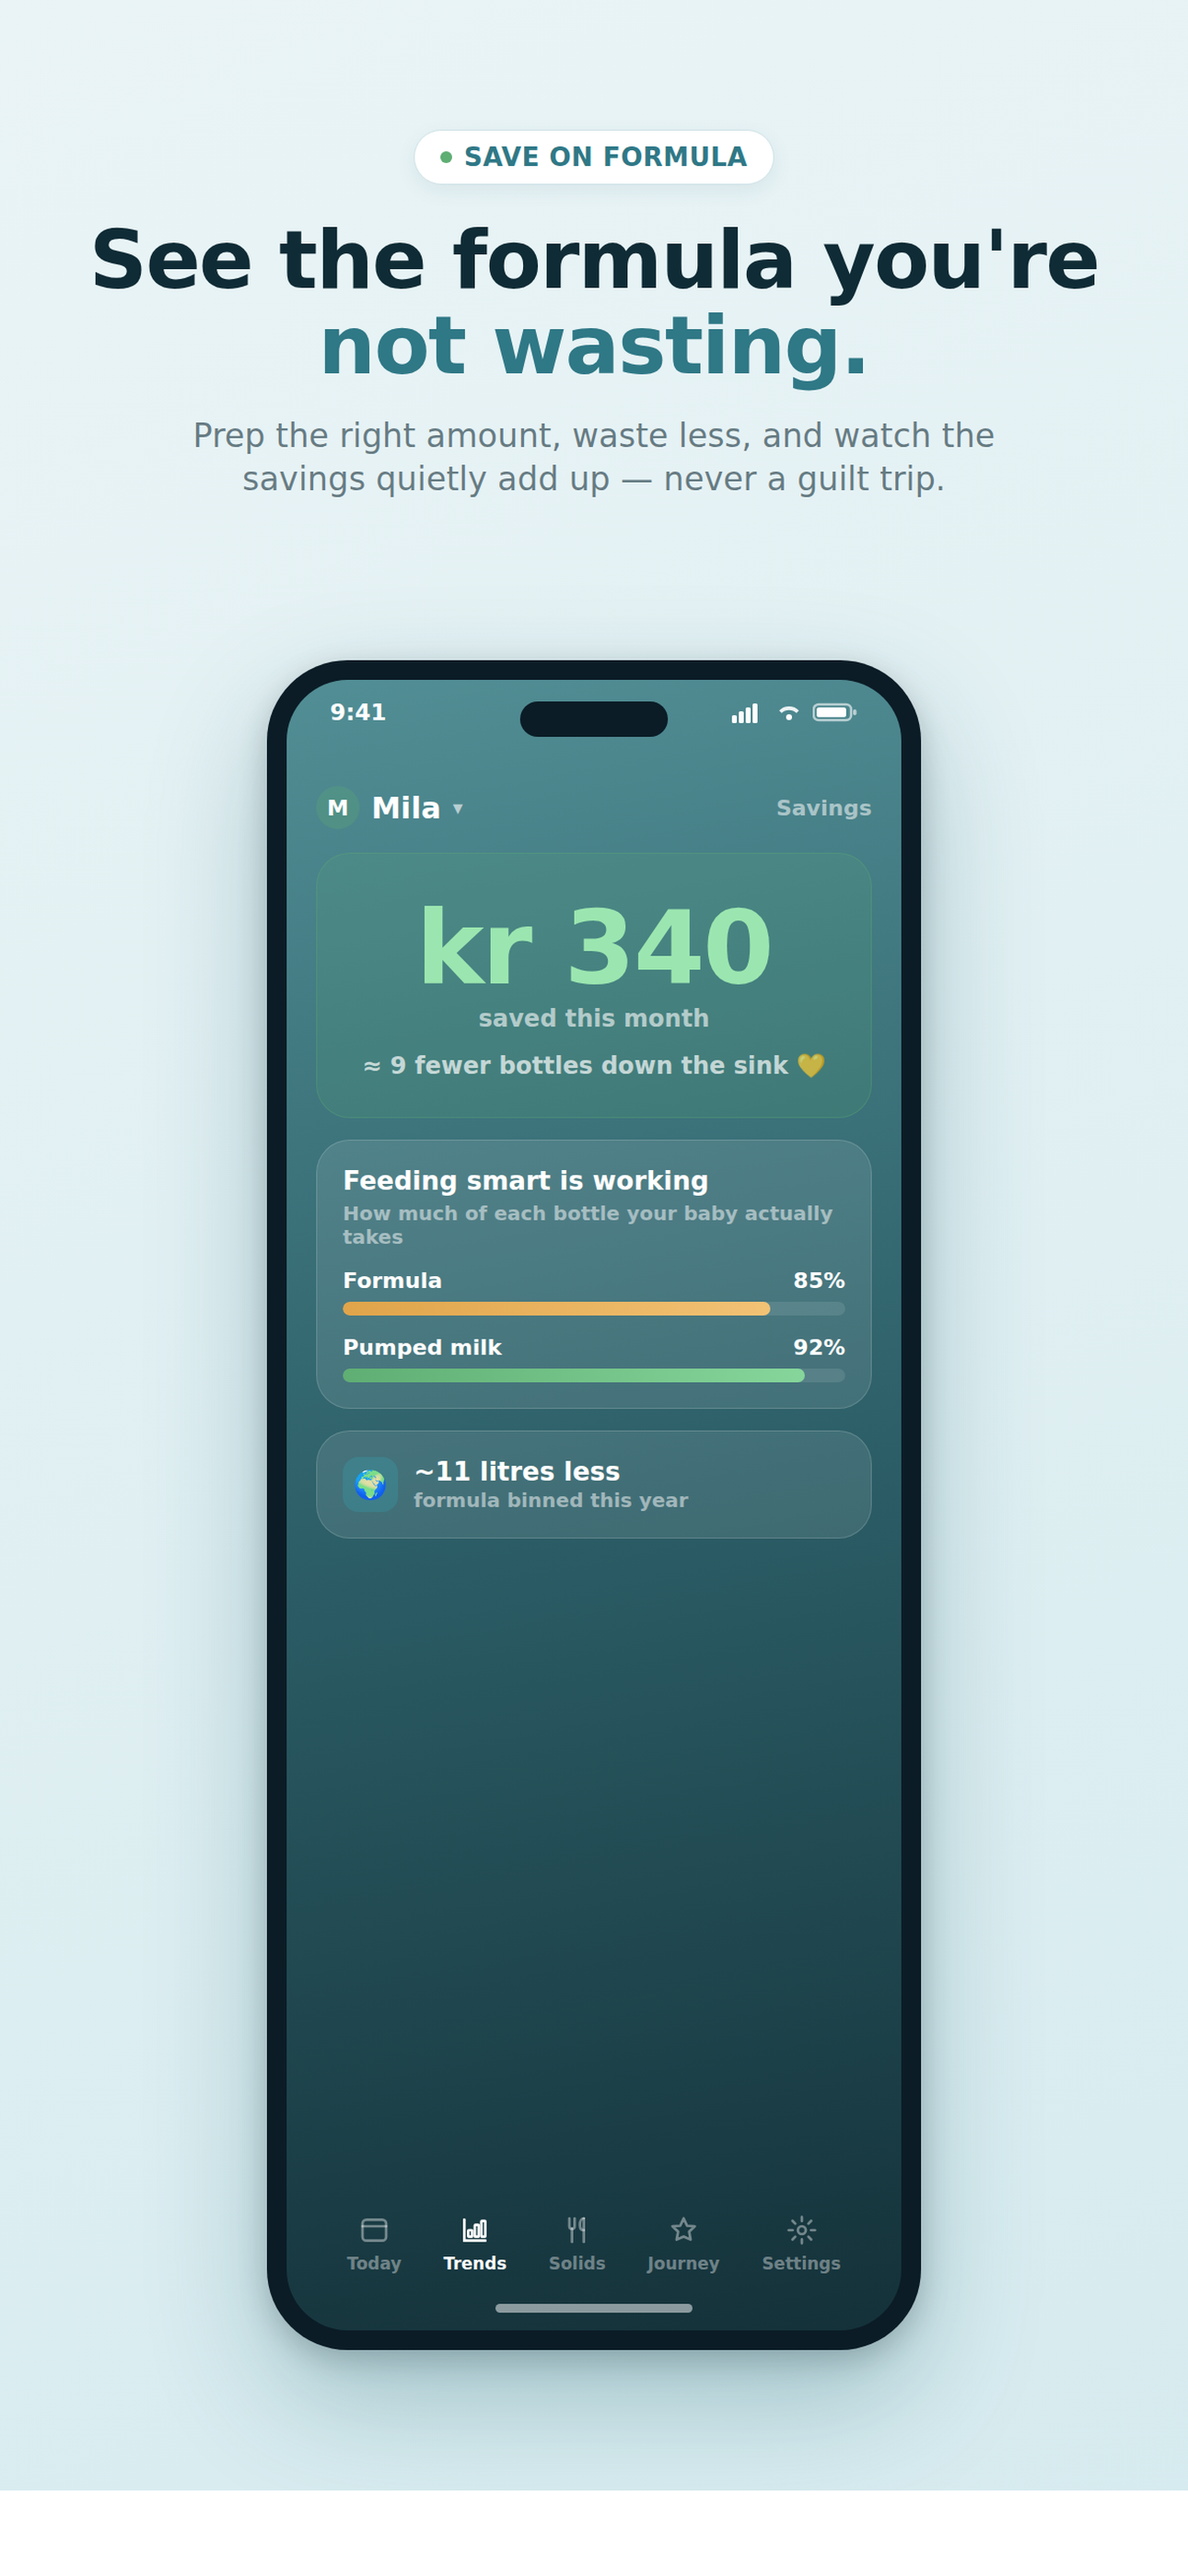
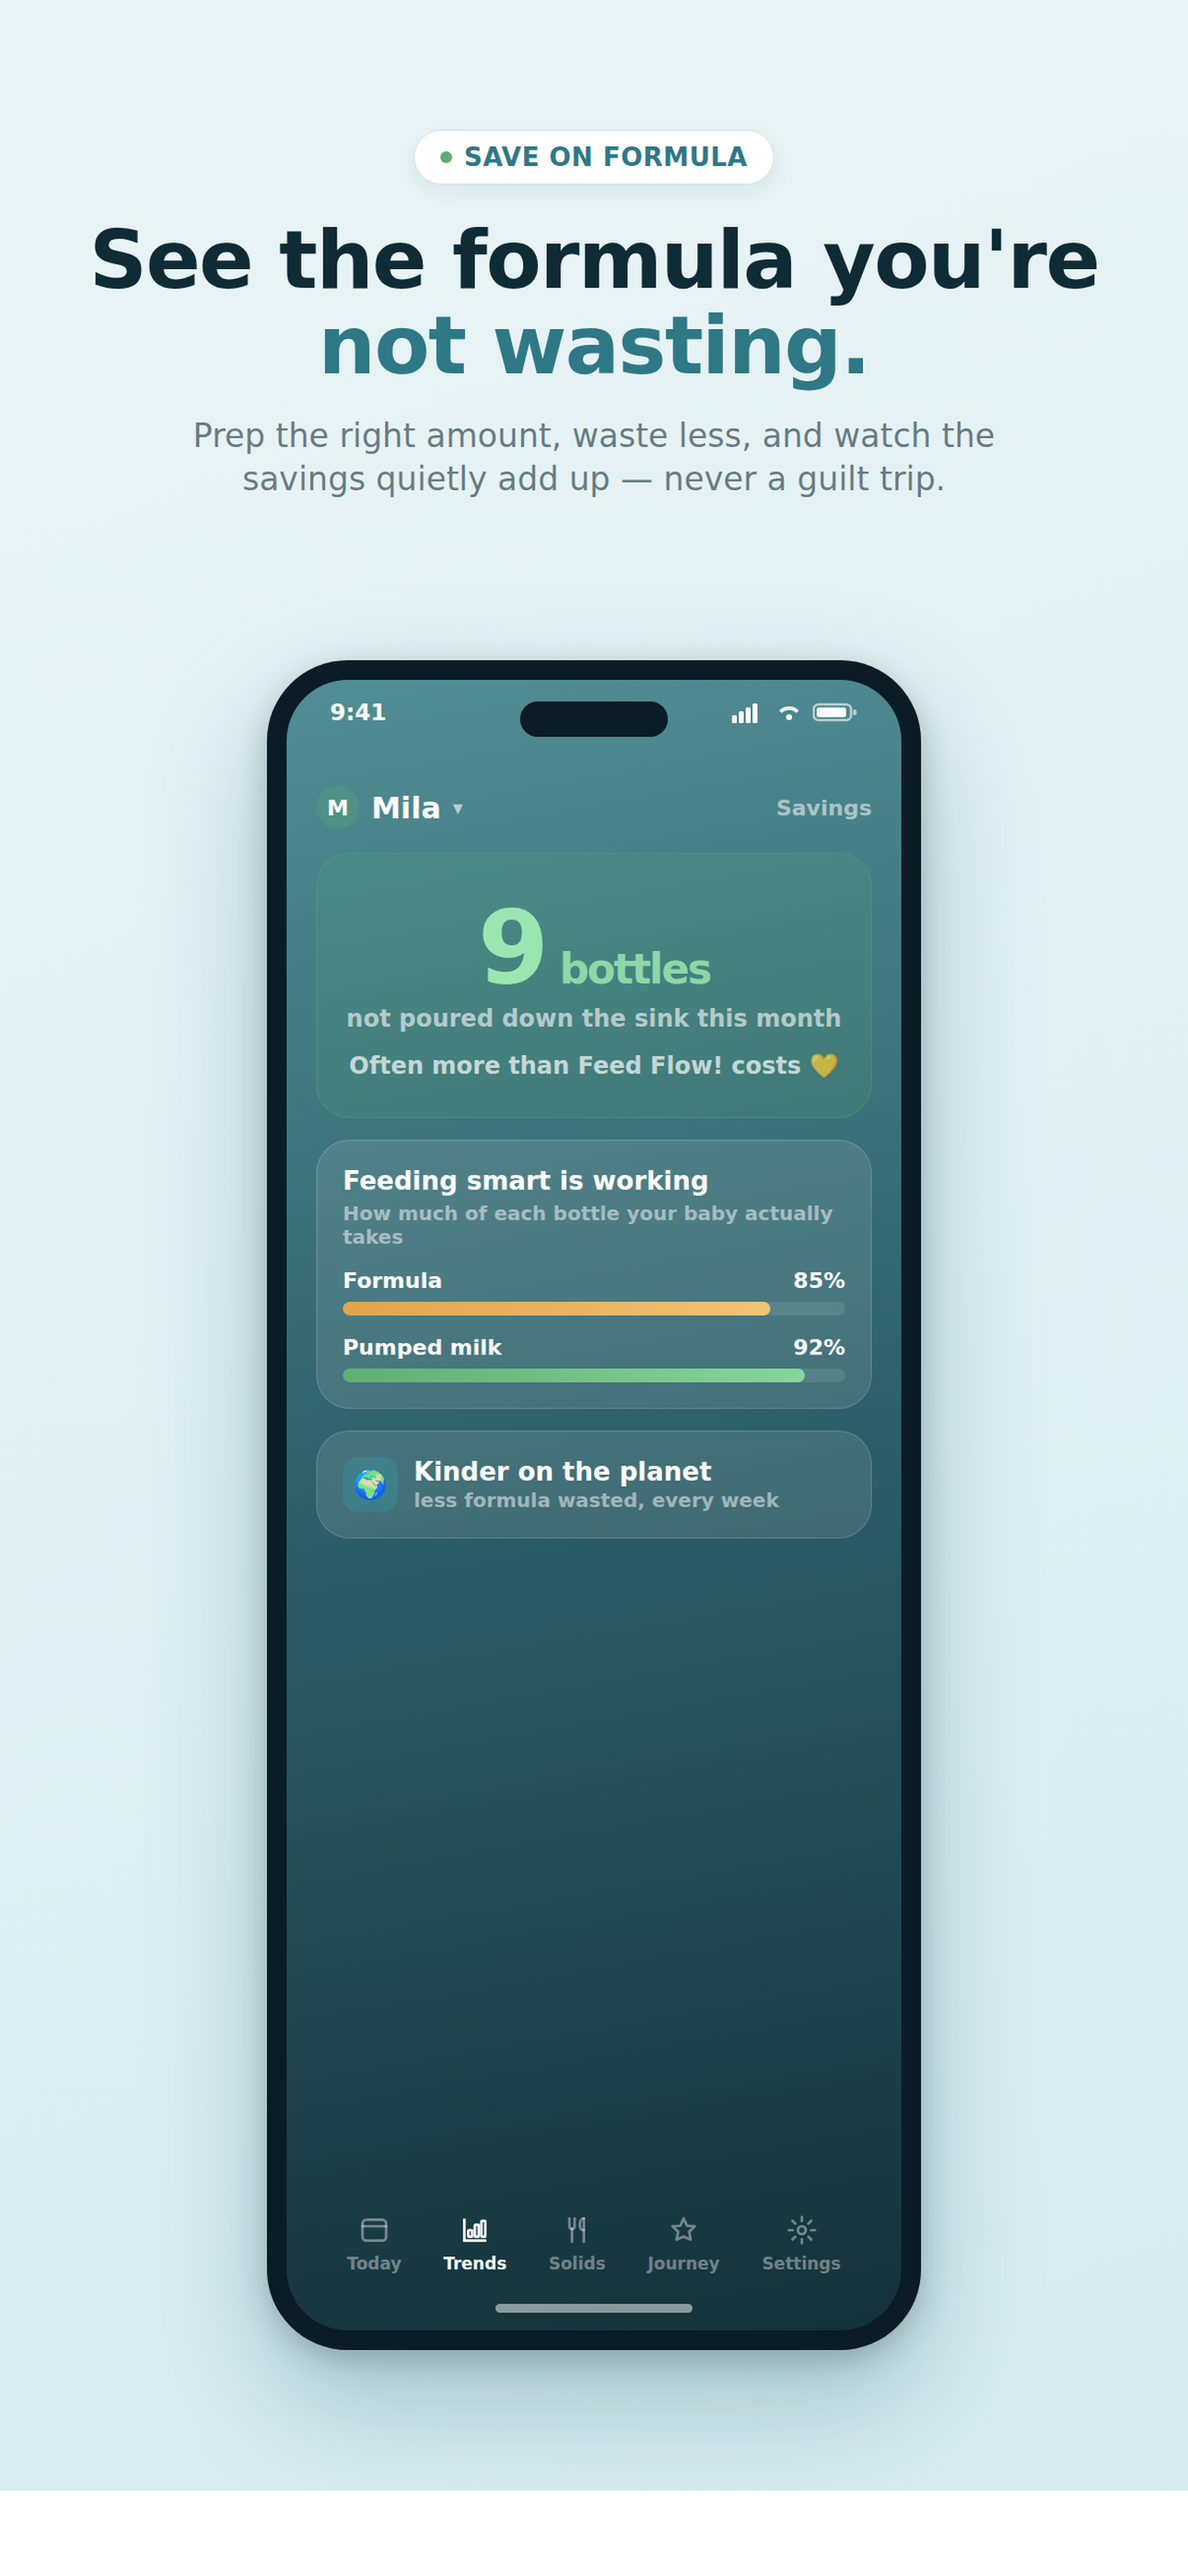
Make savings screenshot currency-neutral (universal set)
Drop the kr figure + litres so the set works in every market: hero is now
"9 bottles not poured down the sink" + "often more than Feed Flow! costs"
(money implied, no symbol) + efficiency %s. Regenerate the App Store file.

Changed region(s): [[0.3101, 0.3423, 0.7132, 0.4356], [0.3411, 0.5601, 0.6512, 0.5912]]

diff --git a/marketing/mockups/savings.html b/marketing/mockups/savings.html
@@ -15,9 +15,9 @@
     <div class="screen-in">
       <div class="hd"><div class="baby"><span class="av">M</span> Mila <span style="font-size:20px;opacity:0.6;">▾</span></div><div class="tab">Savings</div></div>
       <div class="card" style="text-align:center;padding:44px 26px 38px;background:rgba(95,174,115,0.14);border-color:rgba(95,174,115,0.32);">
-        <div class="hs-num" style="color:#9BE6B0;">kr 340</div>
-        <div class="hs-label">saved this month</div>
-        <div style="color:rgba(255,255,255,0.7);font-size:24px;font-weight:600;margin-top:20px;">≈ 9 fewer bottles down the sink 💛</div>
+        <div class="hs-num" style="color:#9BE6B0;">9<span style="font-size:42px;opacity:0.85;font-weight:700;"> bottles</span></div>
+        <div class="hs-label">not poured down the sink this month</div>
+        <div style="color:rgba(255,255,255,0.7);font-size:24px;font-weight:600;margin-top:20px;">Often more than Feed Flow! costs 💛</div>
       </div>
       <div class="card">
         <div class="ctitle" style="margin-bottom:6px;">Feeding smart is working</div>
@@ -27,7 +27,7 @@
       </div>
       <div class="card" style="display:flex;align-items:center;gap:16px;">
         <div class="tl-ico" style="background:rgba(47,185,206,0.2);">🌍</div>
-        <div><div class="tl-name">~11 litres less</div><div class="tl-sub">formula binned this year</div></div>
+        <div><div class="tl-name">Kinder on the planet</div><div class="tl-sub">less formula wasted, every week</div></div>
       </div>
     </div>
     <div class="tabbar">
